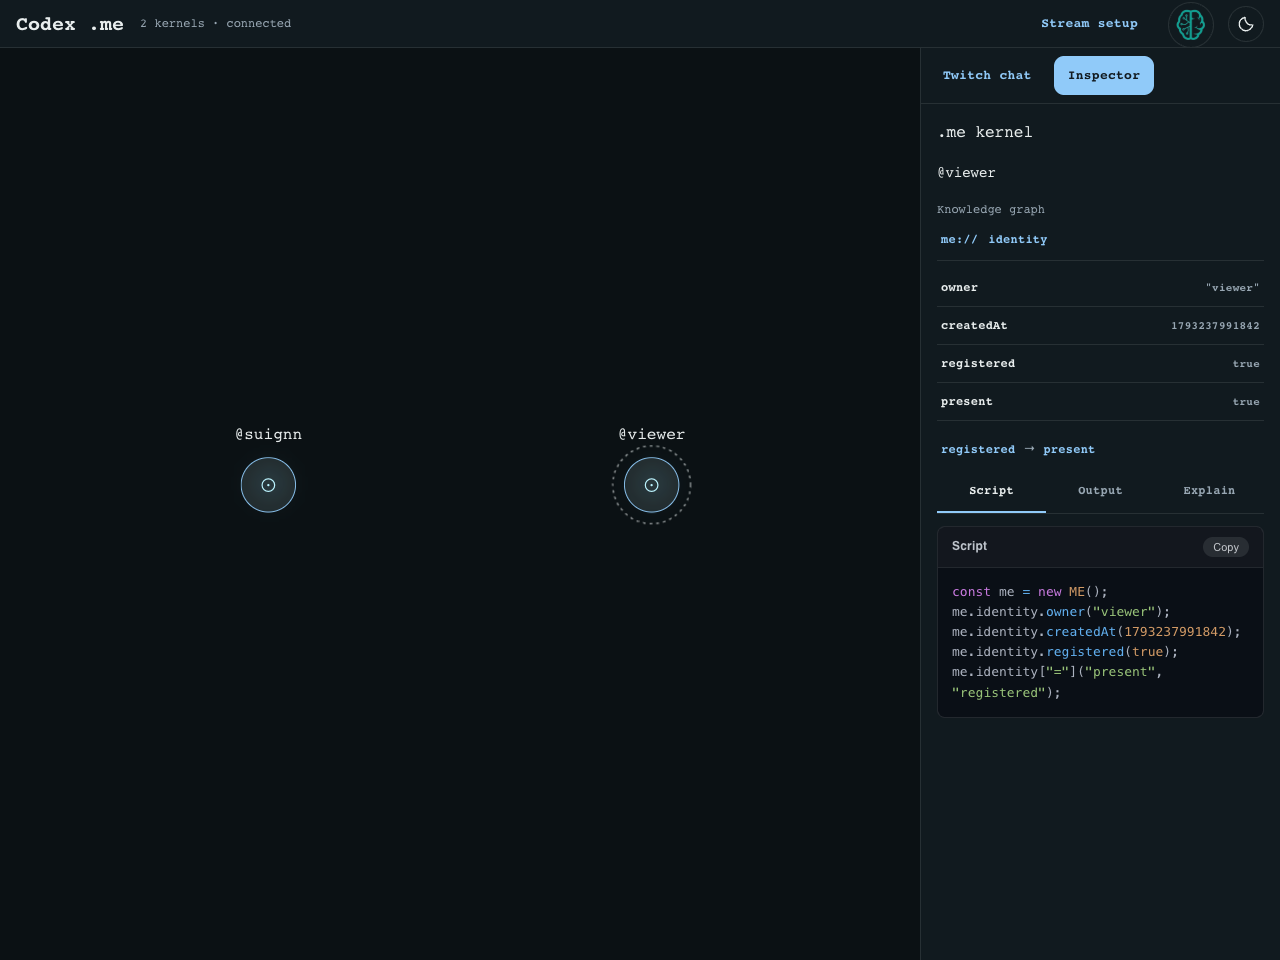
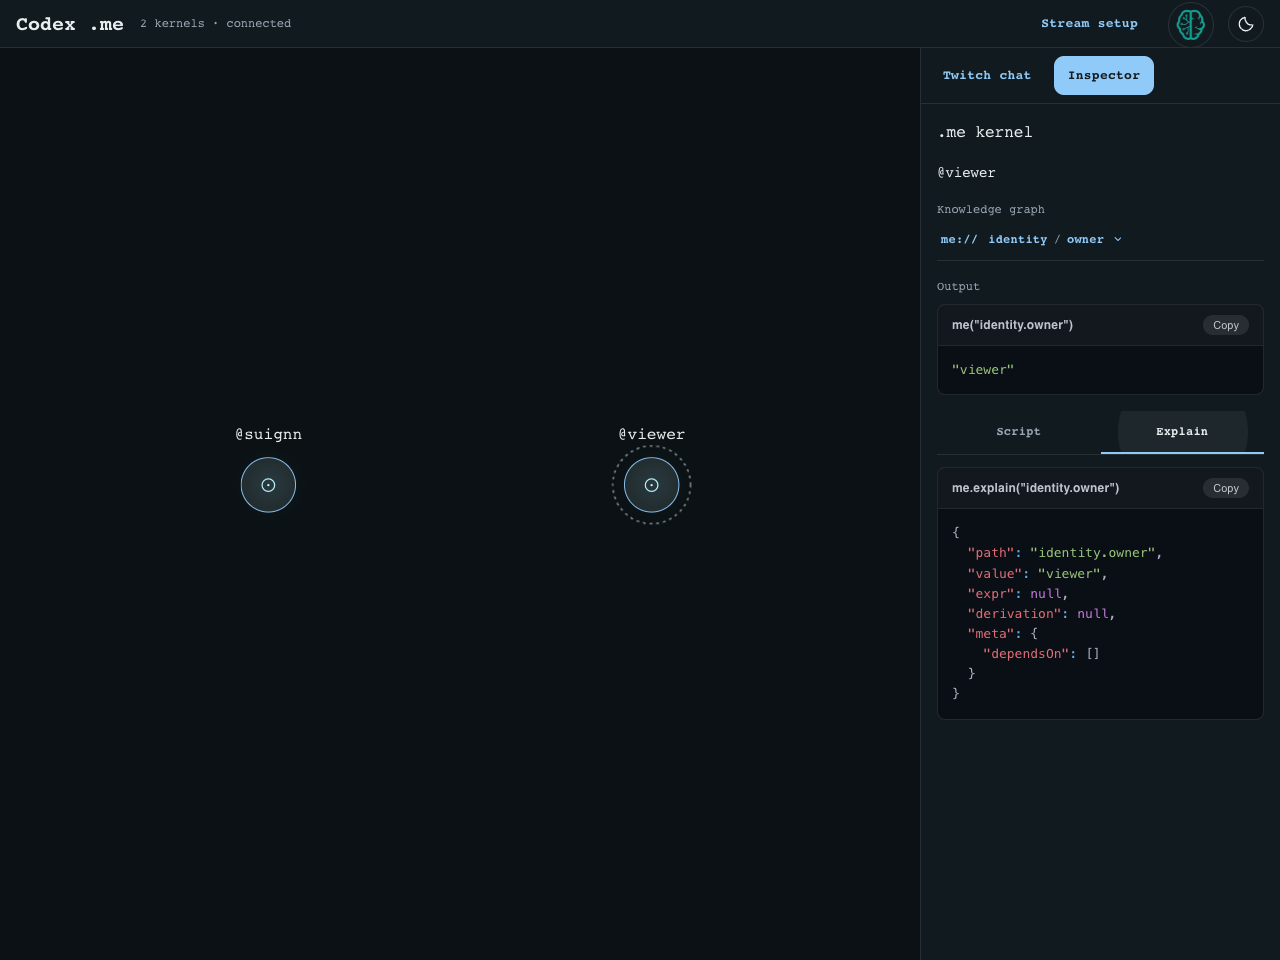
ui: keep output visible and preserve inspector tab on navigation

diff --git a/overlay/kernel-console.js b/overlay/kernel-console.js
@@ -3,40 +3,49 @@ const { Box, Typography, Button } = G.Atoms;
 const mono = { fontFamily: '"IBM Plex Mono", ui-monospace, monospace' };
 const codeStyle = { minWidth: 0, '& pre code': { whiteSpace: 'pre-wrap !important', overflowWrap: 'anywhere' }, '& pre code > span': { display: 'block !important', overflowWrap: 'anywhere' }, '& pre code > span > span': { display: 'inline !important' } };
 const code = (source, language, title) => h(G.CodeBlock, { code: source, language, title, wrapLongLines: true, showLineNumbers: false, showCopyButton: true, style: { borderRadius: 8 } });
-const tabs = ['Script', 'Output', 'Explain'];
-export function KernelConsole({ kernel, path }) {
-  const [tab, setTab] = R.useState('Script'), [outputs, setOutputs] = R.useState({}), [error, setError] = R.useState('');
-  const leaf = kernel.graph?.nodes.some(node => node.path === path);
-  const operation = tab === 'Explain' ? 'explain' : 'run';
-  const prefix = `console-${kernel.id}`;
+const tabs = ['Script', 'Explain'];
+function useQuery(id, path, operation, enabled) {
+  const [result, setResult] = R.useState(null);
+  const key = JSON.stringify([id, path, operation]);
   R.useEffect(() => {
-    if (tab === 'Script' || !leaf || Object.hasOwn(outputs, operation)) return;
+    if (!enabled) return;
     const controller = new AbortController();
-    setError('');
     (async () => {
       try {
         const params = new URLSearchParams({ path, operation });
-        const response = await fetch(`/api/kernels/${encodeURIComponent(kernel.id)}/query?${params}`, { signal: controller.signal });
-        const result = await response.json();
-        if (!response.ok) throw new Error(result.error || 'Query failed');
-        if (!controller.signal.aborted) setOutputs(previous => ({ ...previous, [operation]: result.output }));
-      } catch (e) { if (!controller.signal.aborted) setError(e.message); }
+        const response = await fetch(`/api/kernels/${encodeURIComponent(id)}/query?${params}`, { signal: controller.signal });
+        const data = await response.json();
+        if (!response.ok) throw new Error(data.error || 'Query failed');
+        if (!controller.signal.aborted) setResult({ key, output: data.output });
+      } catch (e) { if (!controller.signal.aborted) setResult({ key, error: e.message }); }
     })();
     return () => controller.abort();
-  }, [tab, kernel.id, path, leaf, operation, outputs]);
+  }, [id, path, operation, enabled, key]);
+  return result?.key === key ? result : null;
+}
+export function KernelConsole({ kernel, path }) {
+  const [tab, setTab] = R.useState('Script');
+  const leaf = kernel.graph?.nodes.some(node => node.path === path);
+  const output = useQuery(kernel.id, path, 'run', leaf);
+  const explanation = useQuery(kernel.id, path, 'explain', leaf && tab === 'Explain');
+  const prefix = `console-${kernel.id}`;
+  const renderResult = (result, operation) => !leaf
+    ? h(Typography, { sx: { ...mono, fontSize: 12, color: 'text.secondary' } }, 'Select a path.')
+    : result?.error ? h(Typography, { role: 'alert', sx: { fontSize: 12, color: 'error.main' } }, result.error)
+    : result ? h(Box, { 'data-query-output': operation, 'aria-live': 'polite' }, code(JSON.stringify(result.output, null, 2), 'json', `me${operation === 'explain' ? '.explain' : ''}(${JSON.stringify(path)})`))
+    : h(Typography, { role: 'status', sx: { ...mono, fontSize: 12, color: 'text.secondary' } }, 'Loading…');
   return h(Box, { 'data-kernel-console': kernel.id, sx: codeStyle },
+    h(Box, { component: 'section', 'aria-label': 'Output', sx: { mb: 2 } },
+      h(Typography, { sx: { ...mono, fontSize: 12, color: 'text.secondary', mb: 1 } }, 'Output'),
+      renderResult(output, 'run')),
     h(Box, { role: 'tablist', 'aria-label': 'Kernel views', sx: { display: 'flex', borderBottom: 1, borderColor: 'divider', mb: 1.5 } },
       tabs.map(label => h(Button, { key: label, role: 'tab', id: `${prefix}-${label}`, 'aria-selected': tab === label, 'aria-controls': `${prefix}-panel`, tabIndex: tab === label ? 0 : -1,
         onClick: () => setTab(label), onKeyDown: event => {
           const index = tabs.indexOf(label);
-          const next = event.key === 'ArrowRight' ? (index + 1) % 3 : event.key === 'ArrowLeft' ? (index + 2) % 3 : event.key === 'Home' ? 0 : event.key === 'End' ? 2 : null;
+          const next = ['ArrowRight', 'ArrowLeft'].includes(event.key) ? (index + 1) % tabs.length : event.key === 'Home' ? 0 : event.key === 'End' ? tabs.length - 1 : null;
           if (next === null) return;
           event.preventDefault(); setTab(tabs[next]); event.currentTarget.parentElement.querySelectorAll('[role="tab"]')[next].focus();
         }, sx: { ...mono, flex: 1, minWidth: 0, textTransform: 'none', fontSize: 12, borderRadius: 0, borderBottom: 2, borderColor: tab === label ? 'primary.main' : 'transparent', color: tab === label ? 'text.primary' : 'text.secondary' } }, label))),
     h(Box, { role: 'tabpanel', id: `${prefix}-panel`, 'aria-labelledby': `${prefix}-${tab}`, tabIndex: 0 },
-      tab === 'Script' ? h(Box, { 'data-me-script': kernel.id }, code(kernel.script, 'javascript', 'Script'))
-        : !leaf ? h(Typography, { sx: { ...mono, fontSize: 12, color: 'text.secondary' } }, 'Select a path to see its output or explanation.')
-        : error ? h(Typography, { role: 'alert', sx: { fontSize: 12, color: 'error.main' } }, error)
-        : Object.hasOwn(outputs, operation) ? h(Box, { 'data-query-output': operation, 'aria-live': 'polite' }, code(JSON.stringify(outputs[operation], null, 2), 'json', `me${tab === 'Explain' ? '.explain' : ''}(${JSON.stringify(path)})`))
-        : h(Typography, { role: 'status', sx: { ...mono, fontSize: 12, color: 'text.secondary' } }, 'Loading…')));
+      tab === 'Script' ? h(Box, { 'data-me-script': kernel.id }, code(kernel.script, 'javascript', 'Script')) : renderResult(explanation, 'explain')));
 }

diff --git a/overlay/spiders.js b/overlay/spiders.js
@@ -70,7 +70,7 @@ function App() {
             h(Typography, { sx: { ...mono, fontSize: 14, mb: 2 } }, `@${current.owner}`),
             h(Typography, { sx: { ...mono, fontSize: 12, color: 'text.secondary', mb: 1 } }, 'Knowledge graph'),
             h(KnowledgeGraph, { graph: current.graph, path, selectPath }),
-            h(KernelConsole, { key: `${current.id}:${path}`, kernel: current, path }))
+            h(KernelConsole, { kernel: current, path }))
             : h(Typography, { role: 'status', 'data-inspector-empty': true, sx: { ...mono, fontSize: 14, color: 'text.secondary' } }, 'Select a node')))));
 }
 const type = { type: 'Kernels', resolve: () => h(App) };

diff --git a/README.md b/README.md
@@ -47,7 +47,7 @@ The grammar is an allowlist, never JavaScript evaluation. It does not permit cha
 
 The initial kernel has `identity.owner`, `identity.createdAt`, `identity.registered` and `identity.present`. The last value is derived by the actual `registered` rule. Graph nodes come from public `exportSnapshot().memories`; their displayed values are read through `me(path)`. Dependency edges come from `me.explain(path).derivation.inputs`, not from an inferred model or fabricated graph. For example, `identity.registered → identity.present` is a real dependency. This first graph is intentionally small.
 
-The inspector navigates the graph by path: `me://` lists root branches; opening `identity` lists `owner`, `createdAt`, `registered` and `present` without repeating the prefix. Breadcrumb segments return to ancestors; a dropdown appears only when that segment has other siblings at its level. The root is a navigation link, not another dropdown. Opening a leaf shows its value and real explanation. Branches are UI groups derived from memory paths, not invented stored facts or a new namespace-read API. Real dependency links remain clickable inside their parent branch. The `me://` breadcrumb is a local display, not a remote-address operation. The console has three tabs: **Script**, **Output**, and **Explain**. Script shows the actual construction source with GUI's native syntax highlighting. For an existing leaf, opening Output automatically reads `me(path)` from the existing server kernel and displays its JSON value; opening Explain automatically reads `me.explain(path)` and displays the actual JSON object, including expression, derivation and metadata as returned by this.me 4.2.1. There are no execution buttons. Results reset when changing path/kernel; Script is initially selected. Arrow keys and Home/End navigate the tabs. No construction script is re-executed and no editable code or eval is accepted. The object inspector is separate from GUI's general semantic/interface inspector and browser DOM developer tools. Selecting graph nodes only reads state; it does not execute or rewrite scripts. Face following changes presentation only and does not invent kernel facts or explanation results.
+The inspector navigates the graph by path: `me://` lists root branches; opening `identity` lists `owner`, `createdAt`, `registered` and `present` without repeating the prefix. Breadcrumb segments return to ancestors; a dropdown appears only when that segment has other siblings at its level. The root is a navigation link, not another dropdown. Opening a leaf shows its value and real explanation. Branches are UI groups derived from memory paths, not invented stored facts or a new namespace-read API. Real dependency links remain clickable inside their parent branch. The `me://` breadcrumb is a local display, not a remote-address operation. Below the selected path, **Output** is always visible and automatically reads `me(path)` from the existing server kernel. Under it, **Script / Explain** tabs show the construction source or the actual `me.explain(path)` JSON, including expression, derivation and metadata from this.me 4.2.1. The selected tab is preserved while navigating paths or switching kernels. Query results follow the current selection, with obsolete requests cancelled and old-path results hidden. Script is initially selected; arrow keys and Home/End navigate the tabs. Both views use GUI's native syntax highlighting. No construction script is re-executed and no editable code or eval is accepted. The object inspector is separate from GUI's general semantic/interface inspector and browser DOM developer tools. Selecting graph nodes only reads state; it does not execute or rewrite scripts. Face following changes presentation only and does not invent kernel facts or explanation results.
 
 ## Chat, web and OBS
 

diff --git a/evidence/SESSION.md b/evidence/SESSION.md
@@ -342,3 +342,10 @@ Restarted only the verified codex-me process on 3017 to activate the endpoint; s
 The owner replaced the Run/Explain button model with three direct views. The console now has Script, Output and Explain tabs. Script is visible initially; opening Output or Explain automatically queries the existing real server kernel and displays that response as syntax-highlighted JSON. Only the active view is shown. Requests are cancelled on navigation; path/kernel changes reset results. Added tablist/tab/tabpanel semantics and keyboard navigation with arrows and Home/End. No server/API changes or restart.
 
 The existing offline kernel integration check passed after updating coverage for automatic output/explanation, actual fact/derived JSON, path reset and keyboard navigation. Live-browser checks confirmed Script source, Output true, and the real explain trace for identity.present. Preserved the current theme. Screenshot: evidence/kernels/console-tabs.png. No real chat messages or OBS changes.
+
+
+### 2026-10-28 — persistent Script/Explain tab with always-visible Output
+
+The owner requested the order me://path → Output → Script/Explain, and preserving the chosen tab during navigation. Output now remains visible above the two tabs. Removed the path/kernel React remount key so tab selection survives direct path and kernel changes. Each query tracks its kernel/path/operation identity, hides mismatched results and aborts obsolete requests. Actual server-backed value and explain JSON still load automatically.
+
+The offline integration check passed, including Explain persistence across sibling paths and two separate kernels, correct owner value/trace after switching, simultaneous Output visibility and keyboard navigation. Live-browser verification changed identity.present to identity.registered while Explain remained selected and both JSON results updated. Screenshot: evidence/kernels/output-persistent-tabs.png. No server restart, real chat messages or OBS changes.
